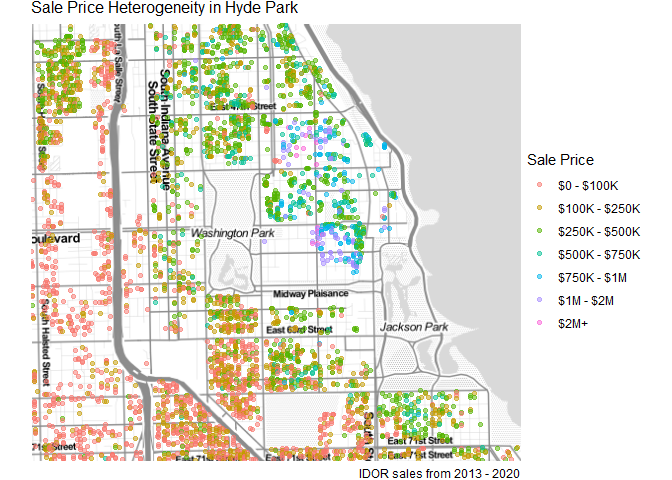
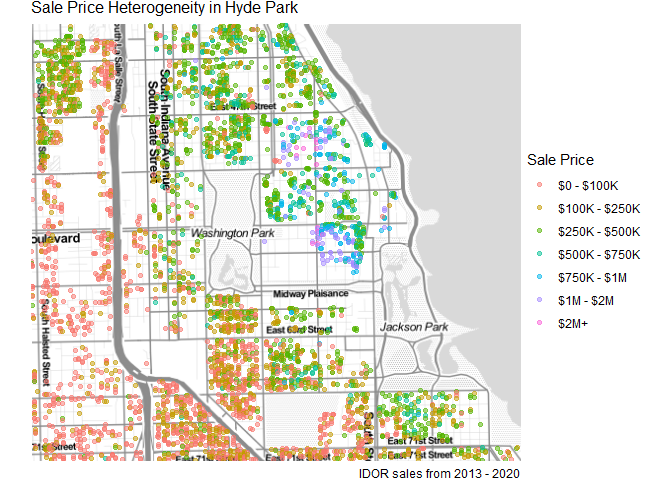
Add new sales, 218/219 properties

diff --git a/README.md b/README.md
@@ -306,11 +306,7 @@ model as of 2020-12-21.
 | Garage Indicator                           | Indicator      | logical     |                                                                                                 |
 | Neighborhood Code                          | Meta           | character   |                                                                                                 |
 | Township Code                              | Meta           | character   |                                                                                                 |
-| Sale Year                                  | Time           | numeric     |                                                                                                 |
-| Sale Quarter                               | Time           | numeric     |                                                                                                 |
-| Sale Month                                 | Time           | numeric     |                                                                                                 |
 | Sale Week                                  | Time           | numeric     |                                                                                                 |
-| Sale Day                                   | Time           | numeric     |                                                                                                 |
 | Sale Quarter of Year                       | Time           | character   |                                                                                                 |
 | Sale Month of Year                         | Time           | character   |                                                                                                 |
 | Sale Week of Year                          | Time           | numeric     |                                                                                                 |
@@ -372,8 +368,10 @@ repository:
 These data sets contain only *residential single- and multi-family
 properties*. Single-family includes property classes 202, 203, 204, 205,
 206, 207, 208, 209, 210, 234, 278, and 295. Multi-family includes
-property classes 211 and 212. Other residential properties, such as
-condominiums (class 299 and 399) are valued [using a different
+property classes 211 and 212. Bed and breakfast properties (class 218
+and 219) are considered single-family for the sake of modeling. Other
+residential properties, such as condominiums (class 299 and 399) are
+valued [using a different
 model](https://gitlab.com/ccao-data-science---modeling/models/ccao_condo_avm).
 
 #### Using `modeldata`
@@ -837,8 +835,8 @@ the table below and generally stays within this range.
 
 | Model Type | R<sup>2</sup> | RMSE     | MAE     | MAPE |
 | :--------- | ------------: | :------- | :------ | :--- |
-| Linear     |          0.72 | $153,750 | $90,784 | 34%  |
-| LightGBM   |          0.86 | $109,015 | $63,071 | 28%  |
+| Linear     |          0.74 | $157,331 | $92,744 | 33%  |
+| LightGBM   |          0.86 | $118,105 | $66,941 | 26%  |
 
 **Q: How often does the model change?**
 
